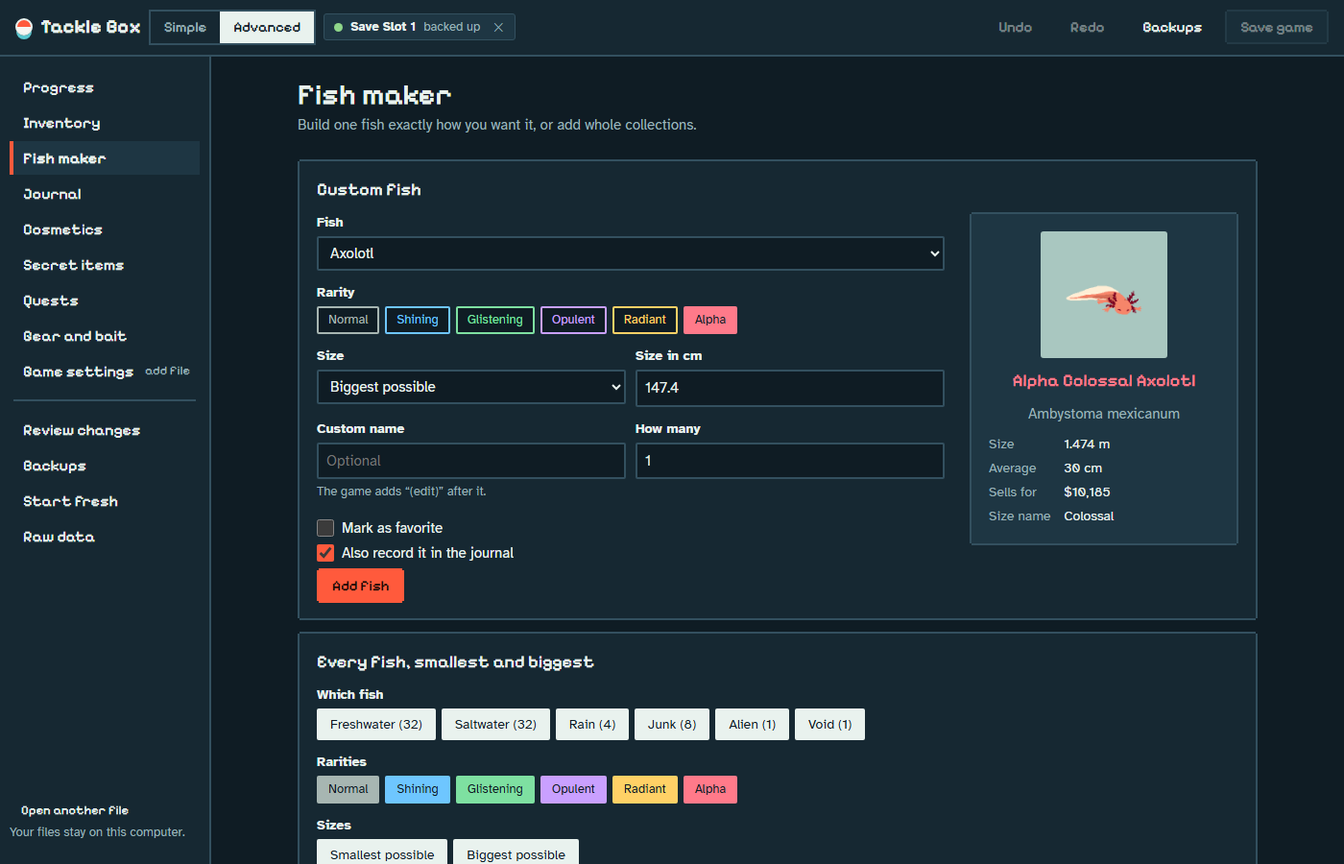
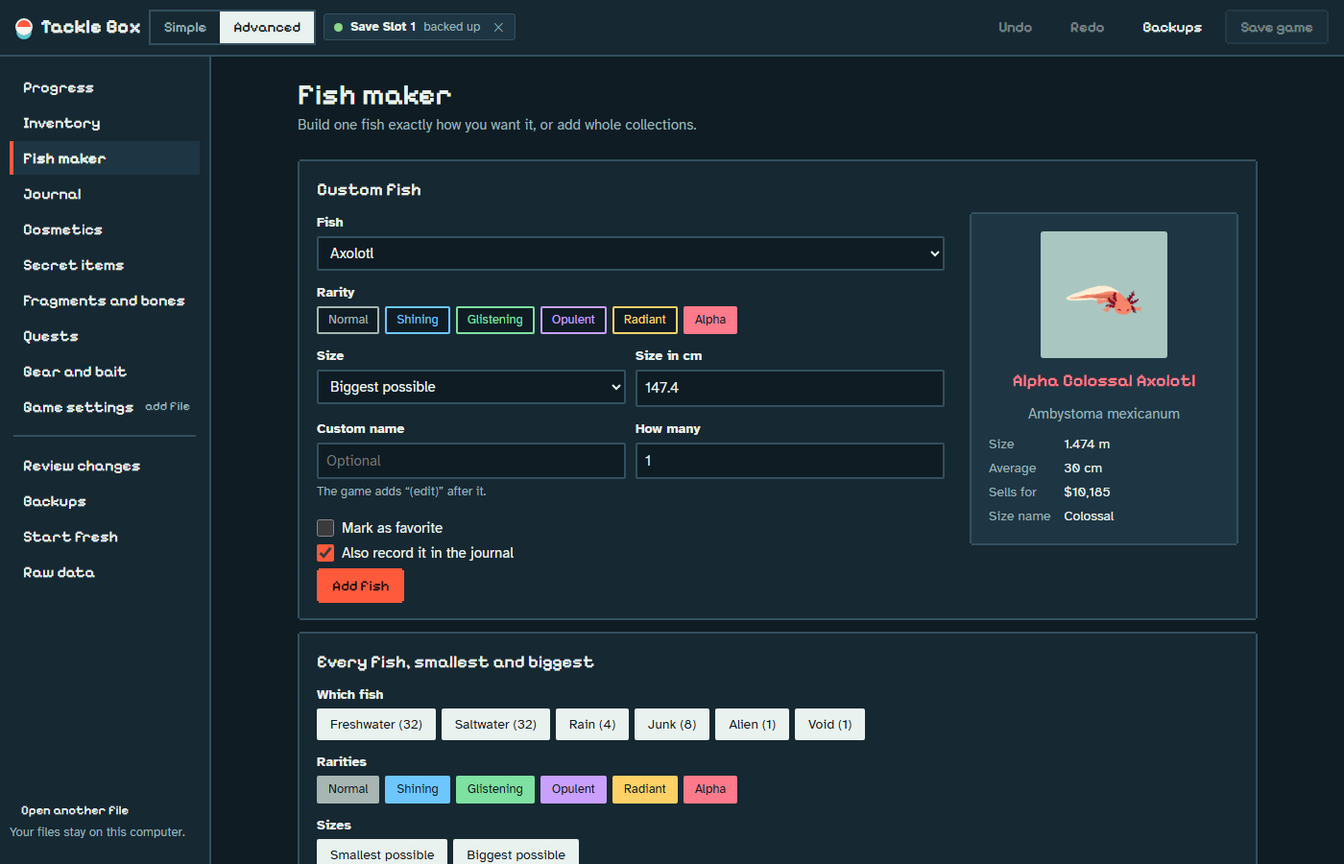
Add clear inventory, fragments, bones and other finds
- Unlock everything can clear the inventory first on saves with progress
- Fragments, spectral bones and other finds, with their own page
- A full unlock now covers every item in the game
- Larger pictures for tiny items, updated README and screenshots

Changed region(s): [[0.0, 0.3422, 0.1536, 0.6844]]

diff --git a/tests/run.js b/tests/run.js
@@ -5,11 +5,11 @@
 'use strict';
 const fs = require('fs'), path = require('path'), vm = require('vm'), assert = require('assert');
 const ROOT = path.join(__dirname, '..');
-const FILES = ['core/variant', 'core/nodes', 'core/diff', 'core/zip', 'data/items', 'data/cosmetics', 'data/gear', 'data/secrets', 'data/item-order', 'data/fresh-save', 'app/ui', 'app/catalog', 'app/fish', 'app/actions', 'app/state', 'app/backups', 'app/files', 'app/safety'];
+const FILES = ['core/variant', 'core/nodes', 'core/diff', 'core/zip', 'data/items', 'data/cosmetics', 'data/gear', 'data/secrets', 'data/item-order', 'data/collectibles', 'data/fresh-save', 'app/ui', 'app/catalog', 'app/fish', 'app/actions', 'app/state', 'app/backups', 'app/files', 'app/safety'];
 const ctx = vm.createContext({ console, TextEncoder, TextDecoder, atob, localStorage: { getItem: () => null, setItem() {} }, document: {}, window: {}, navigator: {} });
 for (const f of FILES) vm.runInContext(fs.readFileSync(path.join(ROOT, 'js', f + '.js'), 'utf8'), ctx, { filename: f });
 const E = (code) => vm.runInContext(code, ctx);
-const X = E('({ parseFile, serializeFile, clone, diff, get, val, N, readSaveFile, checkSave, unlockEverything, completion, startFresh, freshRoot, setTabOrder, moveInTab, sortTab, tabItems, addItems, removeRefs, planCollection, sizeName, SIZE_PRESETS, SIZE_NAMES, biggestNatural, atRatio, CATCHABLE, ALL_FISH, GAME_ITEMS, GAME_COSMETICS, UNLOCK_PARTS, SORTS, LIMITS, JOURNAL_SECTIONS, summarize, recordCatch, setHotbar, hotbarSlotOf, setFavorite, isFavorite, favoriteSet, hasFullCollection, organizeAll, ITEM_ORDER, SECRET_COSMETICS, SECRET_ITEMS, FINDABLE_SECRETS, HIDDEN_COSMETICS, CONTRIBUTOR_TITLES, maxQuests, questsDone, questBoard, tutorialDone, FULL_COLLECTION, missingFish, orderChanged, makeZip, sameBytes, hashBytes, itemTab, USABLE_COSMETICS })');
+const X = E('({ parseFile, serializeFile, clone, diff, get, val, N, readSaveFile, checkSave, unlockEverything, completion, startFresh, freshRoot, setTabOrder, moveInTab, sortTab, tabItems, addItems, removeRefs, planCollection, sizeName, SIZE_PRESETS, SIZE_NAMES, biggestNatural, atRatio, CATCHABLE, ALL_FISH, GAME_ITEMS, GAME_COSMETICS, UNLOCK_PARTS, SORTS, LIMITS, JOURNAL_SECTIONS, summarize, recordCatch, setHotbar, hotbarSlotOf, setFavorite, isFavorite, favoriteSet, hasFullCollection, organizeAll, ITEM_ORDER, FRAGMENTS, BONES, METAL_FINDS, COIN_BAG, CHEST, FIND_ORDER, KEEPER_TOOLS, KEEPER_PROPS, countItems, lacking, fragmentSet, boneSet, findSet, clearInventory, bonesOpen, SECRET_COSMETICS, SECRET_ITEMS, FINDABLE_SECRETS, HIDDEN_COSMETICS, CONTRIBUTOR_TITLES, maxQuests, questsDone, questBoard, tutorialDone, FULL_COLLECTION, missingFish, orderChanged, makeZip, sameBytes, hashBytes, itemTab, USABLE_COSMETICS })');
 
 const same = (a, b, m) => assert.deepStrictEqual(JSON.parse(JSON.stringify([...a])), JSON.parse(JSON.stringify([...b])), m);
 let passed = 0;
@@ -33,6 +33,11 @@ test('journal covers the 78 fish a new save lists', () => {
 
 test('every item and prop has a place in the order', () => {
   same([...X.ITEM_ORDER].sort(), Object.keys(X.GAME_ITEMS).filter(id => ['tool', 'furniture'].includes(X.GAME_ITEMS[id].category)).sort());
+});
+test('unlock covers every item in the game except the built-in hand', () => {
+  const r = X.freshRoot(); X.unlockEverything(r, parts);
+  const have = new Set(X.get(r, 'inventory').v.map(n => X.val(n, 'id')));
+  same(Object.keys(X.GAME_ITEMS).filter(id => !have.has(id)), []);
 });
 test('secret lists match the game data', () => {
   same([...X.HIDDEN_COSMETICS].sort(), X.SECRET_COSMETICS.map(s => s.id).sort());
@@ -87,8 +92,8 @@ for (const [name, root0] of saves) {
   });
   test(name + ': unlock skips the tutorial and adds no other flag', () => {
     const r = fresh(); X.unlockEverything(r, parts); assert(X.tutorialDone(r));
-    const other = (root) => X.val(root, 'saved_tags').map(n => n.v).filter(x => x !== 'first_join');
-    same(other(r), other(root0));
+    const other = (root) => X.val(root, 'saved_tags').map(n => n.v).filter(x => x !== 'first_join' && x !== 'spectral');
+    same(other(r), other(root0)); assert(X.bonesOpen(r));
   });
   test(name + ': unlock adds all 936 fish even when some are owned, and only once by default', () => {
     const r = fresh(), all = X.FULL_COLLECTION(); X.removeRefs(r, refs(r, 'fish')); X.addItems(r, all.slice(0, 5));
@@ -101,7 +106,8 @@ for (const [name, root0] of saves) {
     const base = fresh(); if (X.hasFullCollection(base)) X.removeRefs(base, refs(base, 'fish'));
     const f = open('webfishing_save_slot_0.sav', base), old = X.favoriteSet(base), ownFish = new Set(refs(base, 'fish'));
     X.unlockEverything(f.root, parts, { favoriteFish: true });
-    const favs = X.favoriteSet(f.root), added = refs(f.root, 'fish').filter(x => !ownFish.has(x));
+    const favs = X.favoriteSet(f.root), tradable = new Set(X.tabItems(f.root, 'fish').filter(n => X.FIND_ORDER.includes(X.val(n, 'id'))).map(n => String(X.val(n, 'ref')))), added = refs(f.root, 'fish').filter(x => !ownFish.has(x) && !tradable.has(x));
+    for (const x of tradable) assert.strictEqual(favs.has(x), old.has(x), 'fragments and bones stay tradable');
     assert.strictEqual(added.length, 936 + 3); assert(added.every(x => favs.has(x))); assert([...old].every(x => favs.has(x)));
     assert.strictEqual(favs.size, X.val(f.root, 'locked_refs').length);
     for (const x of ownFish) assert.strictEqual(favs.has(x), old.has(x));
@@ -142,6 +148,32 @@ for (const [name, root0] of saves) {
     }
     const off = fresh(); X.unlockEverything(off, { ...parts, unused: false });
     for (const s of X.SECRET_ITEMS) assert.strictEqual(X.get(off, 'inventory').v.filter(n => X.val(n, 'id') === s.id).length, X.get(root0, 'inventory').v.filter(n => X.val(n, 'id') === s.id).length, s.id);
+  });
+  test(name + ': unlock tops up fragments, bones and finds exactly once', () => {
+    const r = fresh(); X.unlockEverything(r, parts);
+    for (const list of [X.fragmentSet(1), X.boneSet(1), X.findSet()]) assert.strictEqual(X.lacking(r, list).length, 0);
+    const before = X.get(r, 'inventory').v.length; X.unlockEverything(r, parts); assert.strictEqual(X.get(r, 'inventory').v.length, before);
+    for (const x of X.FRAGMENTS) assert.strictEqual(X.countItems(r, x.id), Math.max(3, X.countItems(root0, x.id)));
+    const off = fresh(); X.unlockEverything(off, { ...parts, fragments: false, bones: false, finds: false });
+    for (const id of [...X.FIND_ORDER, X.CHEST]) assert.strictEqual(X.countItems(off, id), X.countItems(root0, id), id);
+    assert.strictEqual(X.bonesOpen(off), X.bonesOpen(root0));
+  });
+  test(name + ': clearing first leaves only what unlock adds, and keeps everything that is not the bag', () => {
+    const f = open('webfishing_save_slot_0.sav', fresh());
+    X.unlockEverything(f.root, parts, { clear: true, favoriteFish: true });
+    assert.deepStrictEqual(stops(f).length, 0);
+    for (const [label, a, b] of X.completion(f.root)) assert.strictEqual(a, b, label);
+    const kept = X.get(root0, 'inventory').v.filter(n => String(X.val(n, 'ref')) === '0').length, all = X.get(f.root, 'inventory').v;
+    assert.strictEqual(all.length, kept + X.KEEPER_TOOLS.length + X.KEEPER_PROPS.length + 8 + 936 + 12 + 5 + 11);
+    const old = new Set(X.get(root0, 'inventory').v.map(n => String(X.val(n, 'ref'))).filter(x => x !== '0'));
+    assert(all.every(n => !old.has(String(X.val(n, 'ref')))));
+    const live = new Set(all.map(n => String(X.val(n, 'ref')))); assert([...X.favoriteSet(f.root)].every(x => live.has(x)));
+    const hot = X.get(f.root, 'hotbar').m.get('0'); assert.strictEqual(X.val(all.find(n => String(X.val(n, 'ref')) === String(hot.v)), 'id'), 'fishing_rod_simple');
+    for (const k of ['cosmetics_equipped', 'muted_players', 'guitar_shapes', 'saved_aqua_fish', 'fish_caught']) assert.strictEqual(X.diff(X.get(root0, k), X.get(f.root, k)).length, 0, k);
+  });
+  test(name + ': clearing with everything else off still leaves a rod', () => {
+    const r = fresh(); X.unlockEverything(r, {}, { clear: true });
+    same(X.tabItems(r, 'tool').map(n => X.val(n, 'id')), ['fishing_rod_simple']);
   });
   test(name + ': unlock never lowers a number', () => {
     const r = fresh(); X.unlockEverything(r, parts);

diff --git a/js/app/actions.js b/js/app/actions.js
@@ -79,11 +79,11 @@ function moveInTab(root, tab, refs, to) {
   const after = list.slice(to).filter(n => !moving.has(String(val(n, 'ref'))));
   setTabOrder(root, tab, [...before, ...pick, ...after]);
 }
-const FISH_GROUPS = ['Creatures_Fish_Freshwater', 'Creatures_Fish_Ocean', 'Creatures_Fish_RainSpecial', 'Creatures_Fish_Alien', 'Creatures_Fish_Void', 'Creatures_Fish_Deep', 'Creatures_WaterTrash', 'Creatures_RodLuck', 'Creatures_MetalDetectLoot', 'Items'];
+const FISH_GROUPS = ['Creatures_Fish_Freshwater', 'Creatures_Fish_Ocean', 'Creatures_Fish_RainSpecial', 'Creatures_Fish_Alien', 'Creatures_Fish_Void', 'Creatures_Fish_Deep', 'Creatures_WaterTrash'];
 const ORDER_OF = new Map(ITEM_ORDER.map((id, i) => [id, i]));
 function kindRank(id) {
   if (!isItem(id)) return 9999; // modded items keep their place at the end
-  if (itemTab(id) === 'fish') return FISH_GROUPS.indexOf(GAME_ITEMS[id].group);
+  if (itemTab(id) === 'fish') return FIND_ORDER.includes(id) ? 100 + FIND_ORDER.indexOf(id) : FISH_GROUPS.indexOf(GAME_ITEMS[id].group);
   return ORDER_OF.has(id) ? ORDER_OF.get(id) : 9000;
 }
 /* Fish: by water, then species, then rarity, then size. Everything else: the fixed list. */
@@ -242,11 +242,47 @@ function completion(root) {
     ['Tools', KEEPER_TOOLS.filter(id => maxed.has(id)).length, KEEPER_TOOLS.length],
     ['Props', KEEPER_PROPS.filter(id => ids.has(id)).length, KEEPER_PROPS.length],
     ['Unused items', UNUSED_ITEMS.filter(id => ids.has(id)).length, UNUSED_ITEMS.length],
+    ['Fragments', fragmentSet(1).length - lacking(root, fragmentSet(1)).length, fragmentSet(1).length],
+    ['Spectral bones', BONES.length - lacking(root, boneSet(1)).length, BONES.length],
+    ['Other finds', findSet().length - lacking(root, findSet()).length, findSet().length],
     ['Quests', questsDone(root), questBoard().length],
     ['Fish collection', fullPlan.length - missingFish(root, fullPlan).length, fullPlan.length],
     ['Rank', Math.min(LIMITS.level, Number(val(root, 'level'))), LIMITS.level],
     ['Camp', Math.min(CAMP_TIERS, Number(val(root, 'loan_level')) + 1), CAMP_TIERS]
   ];
+}
+
+/* ---------- fragments, bones and finds ---------- */
+/* The bone shop only talks to saves with this flag. The game sets it when the first bone is picked up. */
+const BONE_FLAG = 'spectral';
+function bonesOpen(root) { return val(root, 'saved_tags').some(n => n.v === BONE_FLAG); }
+function countItems(root, id, quality = null) {
+  return invOf(root).v.filter(n => val(n, 'id') === id && (quality == null || val(n, 'quality') === quality)).reduce((s, n) => s + Number(val(n, 'count') || 1), 0);
+}
+function collectible(id, quality = 0) { return { id, quality, size: BONES.includes(id) ? 10 : GAME_ITEMS[id].usesSize ? fishAvg(id) : 1 }; }
+const repeat = (n, fn) => Array.from({ length: n }, fn);
+function fragmentSet(sets) { return FRAGMENTS.flatMap(f => repeat(sets * FRAGMENTS_PER_TRADE, () => collectible(f.id))); }
+function boneSet(sets) { return repeat(sets, () => BONES.map(id => collectible(id))).flat(); }
+function findSet() { return [...METAL_FINDS.map(id => collectible(id)), ...COIN_BAG_LEVELS.map(q => collectible(COIN_BAG, q)), collectible(CHEST)]; }
+/* the part of a list that is not owned yet, counting duplicates */
+function lacking(root, list) {
+  const key = (id, q) => id + (id === COIN_BAG ? '|' + q : ''), have = new Map();
+  for (const n of invOf(root).v) { const k = key(val(n, 'id'), val(n, 'quality')); have.set(k, (have.get(k) || 0) + countOf(n)); }
+  return list.filter(x => { const k = key(x.id, x.quality), c = have.get(k) || 0; have.set(k, c - 1); return c <= 0; });
+}
+/* Empty the bag, keeping only the built-in empty hand. */
+function clearInventory(root) {
+  const inv = invOf(root);
+  inv.v = inv.v.filter(n => String(val(n, 'ref')) === '0');
+  for (const n of get(root, 'hotbar').m.values()) setNum(n, 0);
+  const lk = get(root, 'locked_refs');
+  if (lk) lk.v = [];
+}
+/* Nobody is left without a rod. */
+function ensureRod(root) {
+  let rod = invOf(root).v.find(n => val(n, 'id') === 'fishing_rod_simple');
+  if (!rod) [rod] = addItems(root, [{ id: 'fishing_rod_simple' }]);
+  if (rod) setHotbar(root, 0, val(rod, 'ref'));
 }
 
 /* ---------- stacks ---------- */
@@ -274,6 +310,9 @@ const UNLOCK_PARTS = [
   ['tools', 'Tools', 'Every rod, instrument, chalk, drink and gadget, with full stacks of 99'],
   ['props', 'Props', 'One of each prop you lack'],
   ['unused', 'Unused items', 'The 8 leftovers from cut features, see Secret items'],
+  ['fragments', 'Fragments', 'Three of each metal detector fragment, enough for all four trades'],
+  ['bones', 'Spectral bones', 'All five, and opens the hidden bone shop'],
+  ['finds', 'Other finds', 'Metal detector junk, a coin bag of each kind and a treasure chest'],
   ['journal', 'Journal', 'Every fish caught in all six rarities'],
   ['quests', 'Quests', 'One-time quests finished with their rewards, repeating ones at tier 9'],
   ['fish', 'Fish collection', 'All 78 fish in six rarities, smallest and biggest: 936 fish'],
@@ -287,7 +326,9 @@ function toggleInList(arr, id, on) {
 }
 /* Only ever adds or raises. The outfit is not touched; owned items change only by filling their stack, and their place only if organize is on. */
 /* The whole fish set is added, with nothing skipped. Only a save that already holds all 936 needs addFishSet to get another. */
-function unlockEverything(root, parts, { favoriteFish = false, addFishSet = !hasFullCollection(root) } = {}) {
+function unlockEverything(root, parts, { favoriteFish = false, addFishSet, clear = false } = {}) {
+  if (clear) clearInventory(root);
+  const addSet = addFishSet == null ? !hasFullCollection(root) : addFishSet;
   const raise = (key, v) => { const n = get(root, key); if (n && Number(n.v) < v) setNum(n, v); };
   if (parts.money) raise('money', LIMITS.money);
   if (parts.level) raise('level', LIMITS.level);
@@ -319,10 +360,14 @@ function unlockEverything(root, parts, { favoriteFish = false, addFishSet = !has
   if (parts.journal) for (const id of CATCHABLE) recordCatch(root, id, { size: GAME_ITEMS[id].avg, qualities: [0, 1, 2, 3, 4, 5] });
   if (parts.quests) maxQuests(root);
   if (parts.fish) {
-    if (addFishSet) addFish(root, FULL_COLLECTION(), parts.journal);
+    if (addSet) addFish(root, FULL_COLLECTION(), parts.journal);
     if (favoriteFish) favoriteCollection(root);
   }
+  if (parts.fragments) addItems(root, lacking(root, fragmentSet(1)));
+  if (parts.bones) { addItems(root, lacking(root, boneSet(1))); toggleInList(get(root, 'saved_tags'), BONE_FLAG, true); }
+  if (parts.finds) addItems(root, lacking(root, findSet()));
   if (parts.tutorial) setTutorialDone(root, true);
+  if (clear) ensureRod(root);
   if (parts.organize) organizeAll(root);
 }
 

diff --git a/js/app/unlock-dialog.js b/js/app/unlock-dialog.js
@@ -1,24 +1,33 @@
 'use strict';
-/* Asks about the fish before unlocking, then unlocks. Used by the Simple and Advanced views. */
-function runUnlock(parts, options) {
+/* Asks what it needs to before unlocking, then unlocks. Used by the Simple and Advanced views. */
+function runUnlock(parts, options = {}) {
   const f = S.files.save, look = JSON.stringify(equippedOf(f.root));
-  const before = invOf(f.root).v.length;
-  commit('save', 'Unlock everything', () => unlockEverything(f.root, parts, options));
+  commit('save', options.clear ? 'Clear inventory and unlock everything' : 'Unlock everything', () => unlockEverything(f.root, parts, options));
   if (JSON.stringify(equippedOf(f.root)) !== look) { undo(); return toast('Stopped: your outfit would have changed.', 'bad'); }
   const full = parts.fish && !hasFullCollection(f.root);
-  toast(full ? 'Unlocked, but the inventory is full at 10,000, so some fish were left out.' : 'Unlocked. ' + plural(invOf(f.root).v.length - before, 'item') + ' added.', full ? 'bad' : '');
+  toast(full ? 'Unlocked, but the inventory is full at 10,000, so some fish were left out.' : 'Unlocked. You now have ' + plural(invOf(f.root).v.length, 'item') + '.', full ? 'bad' : '');
 }
 function askAndUnlock(parts) {
-  if (!parts.fish) return runUnlock(parts);
   const root = S.files.save.root, owned = hasFullCollection(root);
-  let another = false;
-  const go = (favoriteFish) => { m.close(); runUnlock(parts, { favoriteFish, addFishSet: !owned || another }); };
-  const m = modal('Favorite the fish?', [
-    h('p', null, 'Favorites cannot be sold in the shop, not even with Sell all, so you cannot lose them by accident.'),
-    h('p', null, owned ? 'This save already has all 936 fish. Your answer applies to those.' : 'This adds all 936 fish: every species in all six rarities, smallest and biggest. Fish you already have are not skipped.'),
-    owned ? checkbox('Add another 936 as well', false, v => { another = v; }) : null,
-    h('p', { class: 'muted small' }, 'You can unfavorite any of them in the game with right-click. Favoriting more by hand needs you to be at 100 or fewer.'),
-    h('div', { class: 'row wrap end' }, button('Cancel', () => m.close(), 'ghost'), button('No, leave them', () => go(false)), button('Yes, favorite them', () => go(true), 'primary'))
-  ]);
+  const mine = invOf(root).v.filter(n => String(val(n, 'ref')) !== '0' && val(n, 'id') !== 'fishing_rod_simple');
+  if (!parts.fish && !mine.length) return runUnlock(parts);
+  const o = { favoriteFish: parts.fish, another: false, clear: false };
+  const favs = favoriteSet(root), hearted = mine.filter(n => favs.has(String(val(n, 'ref')))).length, named = mine.filter(n => val(n, 'custom_name')).length;
+  const extra = [hearted ? plural(hearted, 'favorite') : null, named ? plural(named, 'renamed item') : null].filter(Boolean).join(' and ');
+  const note = (text) => h('span', { class: 'muted small block' }, text);
+  const body = h('div', { class: 'asklist' });
+  const draw = () => put(body,
+    mine.length ? checkbox(h('span', null, h('b', null, 'Clear my inventory first'), note('Start with an empty bag, then add everything. Your outfit, money, journal and the rest stay.')), o.clear, v => { o.clear = v; draw(); }) : null,
+    o.clear ? h('p', { class: 'issue stop' }, 'This removes all ' + plural(mine.length, 'item') + (extra ? ', including ' + extra : '') + '. That means keepsakes and fish you caught too. You can undo it, and your original stays in Backups.') : null,
+    parts.fish ? checkbox(h('span', null, h('b', null, 'Favorite the 936 fish'), note('Favorites cannot be sold, not even with Sell all. They also cannot be mailed until you unfavorite them in the game with right-click.')), o.favoriteFish, v => { o.favoriteFish = v; }) : null,
+    parts.fish && owned && !o.clear ? checkbox(h('span', null, h('b', null, 'Add another 936 fish'), note('This save already has them all.')), o.another, v => { o.another = v; }) : null,
+    parts.fragments || parts.bones ? h('p', { class: 'muted small' }, 'Fragments and bones are never favorited, so you can trade or mail them. Sell all would sell them.') : null,
+    h('div', { class: 'row wrap end' }, button('Cancel', () => m.close(), 'ghost'),
+      button(o.clear ? 'Clear and unlock' : 'Unlock everything', () => {
+        m.close();
+        runUnlock(parts, { favoriteFish: o.favoriteFish, clear: o.clear, addFishSet: o.clear || !owned || o.another });
+      }, o.clear ? 'primary danger' : 'primary')));
+  const m = modal('Before you unlock', body);
+  draw();
   m.el.querySelector('.btn.primary').focus();
 }

diff --git a/js/views/collectibles.js b/js/views/collectibles.js
@@ -1,0 +1,37 @@
+'use strict';
+/* Fragments, bones and other finds: see how many you have and add more. */
+function CollectiblesView() {
+  const f = S.files.save, root = f.root;
+  const edit = (label, fn, msg) => { commit('save', label, fn); toast(msg); };
+  const row = (id, note, { quality = 0, label } = {}) => {
+    const amount = h('input', { type: 'number', value: 1, min: 1, max: 99, 'aria-label': 'How many ' + (label || nameOf(id)) });
+    return h('div', { class: 'row-item' }, itemIcon(id, 'ic big'),
+      h('div', { class: 'grow' }, h('b', null, label || nameOf(id)), h('div', { class: 'muted small' }, note)),
+      h('span', { class: 'muted' }, 'You have ' + fmtNum(countItems(root, id, id === COIN_BAG ? quality : null))),
+      h('div', { class: 'numwrap' }, amount),
+      button('Add', () => {
+        const n = Math.min(99, Math.max(1, Math.round(parseFloat(amount.value)) || 1));
+        edit('Add ' + nameOf(id), () => addItems(root, Array.from({ length: n }, () => collectible(id, quality))), 'Added ' + n + ' × ' + (label || nameOf(id)) + '.');
+      }, 'small'));
+  };
+  const sets = (label, make) => {
+    const n = h('input', { type: 'number', value: 1, min: 1, max: 20, 'aria-label': 'How many sets' });
+    return h('div', { class: 'row wrap' }, h('div', { class: 'numwrap setcount' }, n), button(label, () => {
+      const k = Math.min(20, Math.max(1, Math.round(parseFloat(n.value)) || 1));
+      edit(label, () => make(k), 'Added ' + plural(k, 'set') + '.');
+    }, 'primary'));
+  };
+  const open = bonesOpen(root), hasRod = countItems(root, 'fishing_rod_skeleton') > 0;
+  return h('div', { class: 'page' }, pageHead('Fragments and bones', 'Things you trade in, or mail to a friend. They go in Creatures.'),
+    h('p', { class: 'note' }, 'Leave these un-hearted: the game does not let you trade or mail favorites. That also means Sell all will sell them, so do not press it while you are holding them.'),
+    card('Metal detector fragments', h('p', { class: 'muted' }, 'Three of a kind plus $25 at the dock shop buys the item. One set is three of each, enough for all four.'),
+      sets('Add full sets', k => addItems(root, fragmentSet(k))),
+      FRAGMENTS.map(x => row(x.id, 'Three buy the ' + nameOf(x.gives) + (val(root, 'cosmetics_unlocked').some(n => n.v === x.gives) ? ', which you already own' : '')))),
+    card('Spectral bones', h('p', { class: 'muted' }, 'One of each plus $500 buys the Spectral Rod from the hidden bone shop.' + (hasRod ? ' You already have the rod and the shop will not sell a second one, so these are for giving away.' : '')),
+      sets('Add full sets', k => addItems(root, boneSet(k))),
+      checkbox('Open the hidden bone shop for me', open, v => commit('save', v ? 'Open bone shop' : 'Close bone shop', () => toggleInList(get(root, 'saved_tags'), BONE_FLAG, v))),
+      BONES.map(id => row(id, 'One of five'))),
+    card('Other finds', METAL_FINDS.map(id => row(id, 'Metal detector find, sells for $' + fmtNum(itemWorth(id, fishAvg(id), 0)))),
+      COIN_BAG_LEVELS.map(q => row(COIN_BAG, 'Found with rod luck ' + q + ', sells for $' + fmtNum(itemWorth(COIN_BAG, fishAvg(COIN_BAG), q)), { quality: q, label: RARITY[q].n + ' Coin Bag' })),
+      row(CHEST, 'Gives a cosmetic you do not own, or $100 once you own them all. Goes in Items.')));
+}

diff --git a/js/app/shell.js b/js/app/shell.js
@@ -3,7 +3,7 @@
 
 const NAV = [
   ['progress', 'Progress', 'save'], ['inventory', 'Inventory', 'save'], ['fish', 'Fish maker', 'save'], ['journal', 'Journal', 'save'],
-  ['cosmetics', 'Cosmetics', 'save'], ['secrets', 'Secret items', null], ['quests', 'Quests', 'save'], ['gear', 'Gear and bait', 'save'], ['settings', 'Game settings', 'general']
+  ['cosmetics', 'Cosmetics', 'save'], ['secrets', 'Secret items', null], ['collect', 'Fragments and bones', 'save'], ['quests', 'Quests', 'save'], ['gear', 'Gear and bait', 'save'], ['settings', 'Game settings', 'general']
 ];
 const NAV_KEYS = {
   progress: ['money', 'level', 'xp', 'fish_caught', 'cash_total', 'loan_level', 'loan_left', 'voice_pitch', 'voice_speed'],
@@ -12,7 +12,7 @@ const NAV_KEYS = {
   gear: ['rod_power', 'rod_speed', 'rod_chance', 'rod_luck', 'buddy_level', 'buddy_speed', 'max_bait', 'bait_inv', 'bait_selected', 'bait_unlocked', 'lure_unlocked', 'lure_selected']
 };
 const VIEWS = () => ({
-  home: Landing, progress: ProgressView, inventory: InventoryView, fish: FishView, journal: JournalView, cosmetics: CosmeticsView, secrets: SecretsView, quests: QuestsView,
+  home: Landing, progress: ProgressView, inventory: InventoryView, fish: FishView, journal: JournalView, cosmetics: CosmeticsView, secrets: SecretsView, collect: CollectiblesView, quests: QuestsView,
   gear: GearView, settings: SettingsView, changes: ChangesView, backups: BackupsView, fresh: FreshView, raw: RawView
 });
 

diff --git a/js/data/collectibles.js b/js/data/collectibles.js
@@ -1,0 +1,15 @@
+'use strict';
+/* Things you collect to trade, and other odd finds. Amounts come from the 1.12 shops. */
+const FRAGMENTS_PER_TRADE = 3;
+const FRAGMENTS = [
+  { id: 'mdl_piece_hat', gives: 'hat_tophat' }, { id: 'mdl_piece_monocle', gives: 'accessory_monocle' },
+  { id: 'mdl_piece_watch', gives: 'accessory_watch' }, { id: 'mdl_piece_sword', gives: 'accessory_sword' }
+];
+const BONES = ['spectral_skull', 'spectral_rib', 'spectral_spine', 'spectral_humerus', 'spectral_femur'];
+const METAL_FINDS = ['mdl_button', 'mdl_casing', 'mdl_coin', 'mdl_ring', 'mdl_sodatab'];
+/* A coin bag's rarity is the rod luck it was found with, 1 to 5. */
+const COIN_BAG = 'luck_moneybag', COIN_BAG_LEVELS = [1, 2, 3, 4, 5];
+const CHEST = 'treasure_chest';
+/* order of everything in Creatures that is not a catch */
+const FIND_ORDER = [...FRAGMENTS.map(f => f.id), ...BONES, ...METAL_FINDS, COIN_BAG];
+if (typeof module !== 'undefined') module.exports = { FRAGMENTS, FRAGMENTS_PER_TRADE, BONES, METAL_FINDS, COIN_BAG, COIN_BAG_LEVELS, CHEST, FIND_ORDER };

diff --git a/js/views/secrets.js b/js/views/secrets.js
@@ -30,7 +30,7 @@ function SecretsView() {
     section('Hidden cosmetics', 'Finished and wearable, but the game never gives them to you.', SECRET_COSMETICS, own),
     section('Unused items', 'Left over from features that were cut. The game never hands these out.', SECRET_ITEMS, item,
       'Do not mail these. The game turns an unused item into a salmon when it is mailed.'),
-    section('Secrets you can find yourself', 'Everyone can get these by playing.', FINDABLE_SECRETS, null),
+    section('Secrets you can find yourself', 'Everyone can get these by playing. The Fragments and bones page can add the parts.', FINDABLE_SECRETS, null),
     h('section', { class: 'secretblock' }, h('h2', null, 'Contributor titles'),
       h('p', { class: 'muted' }, 'Made for people who helped with the game. Anyone else who wears one is shown as “Scout”, so adding them does nothing.'),
       h('div', { class: 'chips' }, [...CONTRIBUTOR_TITLES].map(id => h('span', { class: 'chip static' }, GAME_COSMETICS[id].title || nameOf(id))))));

diff --git a/js/views/simple.js b/js/views/simple.js
@@ -13,7 +13,7 @@ function SimpleView() {
         h('span', { class: 'muted small' }, plural(s.fish, 'fish', 'fish') + ' caught, ' + plural(s.items, 'item')))),
     h('section', { class: 'simple-main' },
       h('h1', null, full ? 'Everything is unlocked' : 'Unlock everything on this save'),
-      h('p', { class: 'muted' }, 'Your outfit stays as it is. This adds what you are missing, fills your stacks and puts each kind of item together.'),
+      h('p', { class: 'muted' }, 'Your outfit stays as it is. This adds what you are missing, fills your stacks and puts each kind of item together. It asks first if you want to start with an empty bag.'),
       h('div', { class: 'meters' }, rows.map(([l, a, b]) => meter(l, a, b))),
       h('div', { class: 'row wrap' },
         button('Unlock everything', run, (done || full ? '' : 'primary ') + 'huge', { disabled: !Object.values(simpleParts).some(Boolean) }),

diff --git a/js/data/secrets.js b/js/data/secrets.js
@@ -26,7 +26,7 @@ const FINDABLE_SECRETS = [
   { id: 'hat_tophat', how: 'Trade three Hat Fragments from the metal detector.' },
   { id: 'accessory_monocle', how: 'Trade three Monocle Fragments from the metal detector.' },
   { id: 'accessory_watch', how: 'Trade three Watch Fragments from the metal detector.' },
-  { id: 'accessory_sword', how: 'Trade three Sword Fragments from the metal detector.' },
+  { id: 'accessory_sword', how: 'Trade three Blade Fragments from the metal detector.' },
   { id: 'accessory_ring', how: 'Buy a Ring Box and open it.' },
   { id: 'fishing_rod_travelers', how: 'Catch one of every fish in the journal. The shop then sells it.' },
   { id: 'fishing_rod_collectors_alpha', how: 'Catch every fish in Alpha. The shop then sells it. Each rarity opens its own Collector’s rod.' },

diff --git a/index.html b/index.html
@@ -30,6 +30,7 @@
 <script src="js/data/gear.js"></script>
 <script src="js/data/secrets.js"></script>
 <script src="js/data/item-order.js"></script>
+<script src="js/data/collectibles.js"></script>
 <script src="js/data/fresh-save.js"></script>
 <script src="js/app/dom.js"></script>
 <script src="js/app/ui.js"></script>
@@ -51,6 +52,7 @@
 <script src="js/views/journal.js"></script>
 <script src="js/views/cosmetics.js"></script>
 <script src="js/views/secrets.js"></script>
+<script src="js/views/collectibles.js"></script>
 <script src="js/views/quests.js"></script>
 <script src="js/views/gear.js"></script>
 <script src="js/views/settings.js"></script>

diff --git a/css/components.css b/css/components.css
@@ -106,3 +106,5 @@ input[type=checkbox],input[type=radio]{flex:none}
 .where{display:flex;justify-content:space-between;gap:12px;align-items:center;padding:8px 12px;flex-wrap:wrap} .path{word-break:break-all}
 .picklist{display:flex;flex-direction:column;gap:10px}
 .pick{display:flex;gap:14px;align-items:center;text-align:left;font:inherit;color:var(--text);border:0;padding:10px;cursor:pointer} .pick:hover{background:var(--surface2)}
+/* the game draws these very small in the middle of their picture */
+.well.zoom2,.well.zoom4{overflow:hidden} .well.zoom2 img{transform:scale(2)} .well.zoom4 img{transform:scale(3.6)}

diff --git a/css/views.css b/css/views.css
@@ -145,3 +145,5 @@ body.arranging,body.arranging *{cursor:grabbing!important;user-select:none}
 .heart img{width:16px;height:16px;object-fit:contain;display:block}
 .lookaround{margin:30px 0 22px} .lookaround .btn:first-child{margin-left:2px}
 .samplebar{display:flex;justify-content:space-between;align-items:center;gap:14px;flex-wrap:wrap;padding:8px 14px;margin:0 auto 20px;max-width:1320px;border-left:4px solid var(--warn)}
+.asklist{display:flex;flex-direction:column;gap:12px} .asklist .check{align-items:flex-start}
+.setcount{width:90px} .row-item .btn{flex:none}
